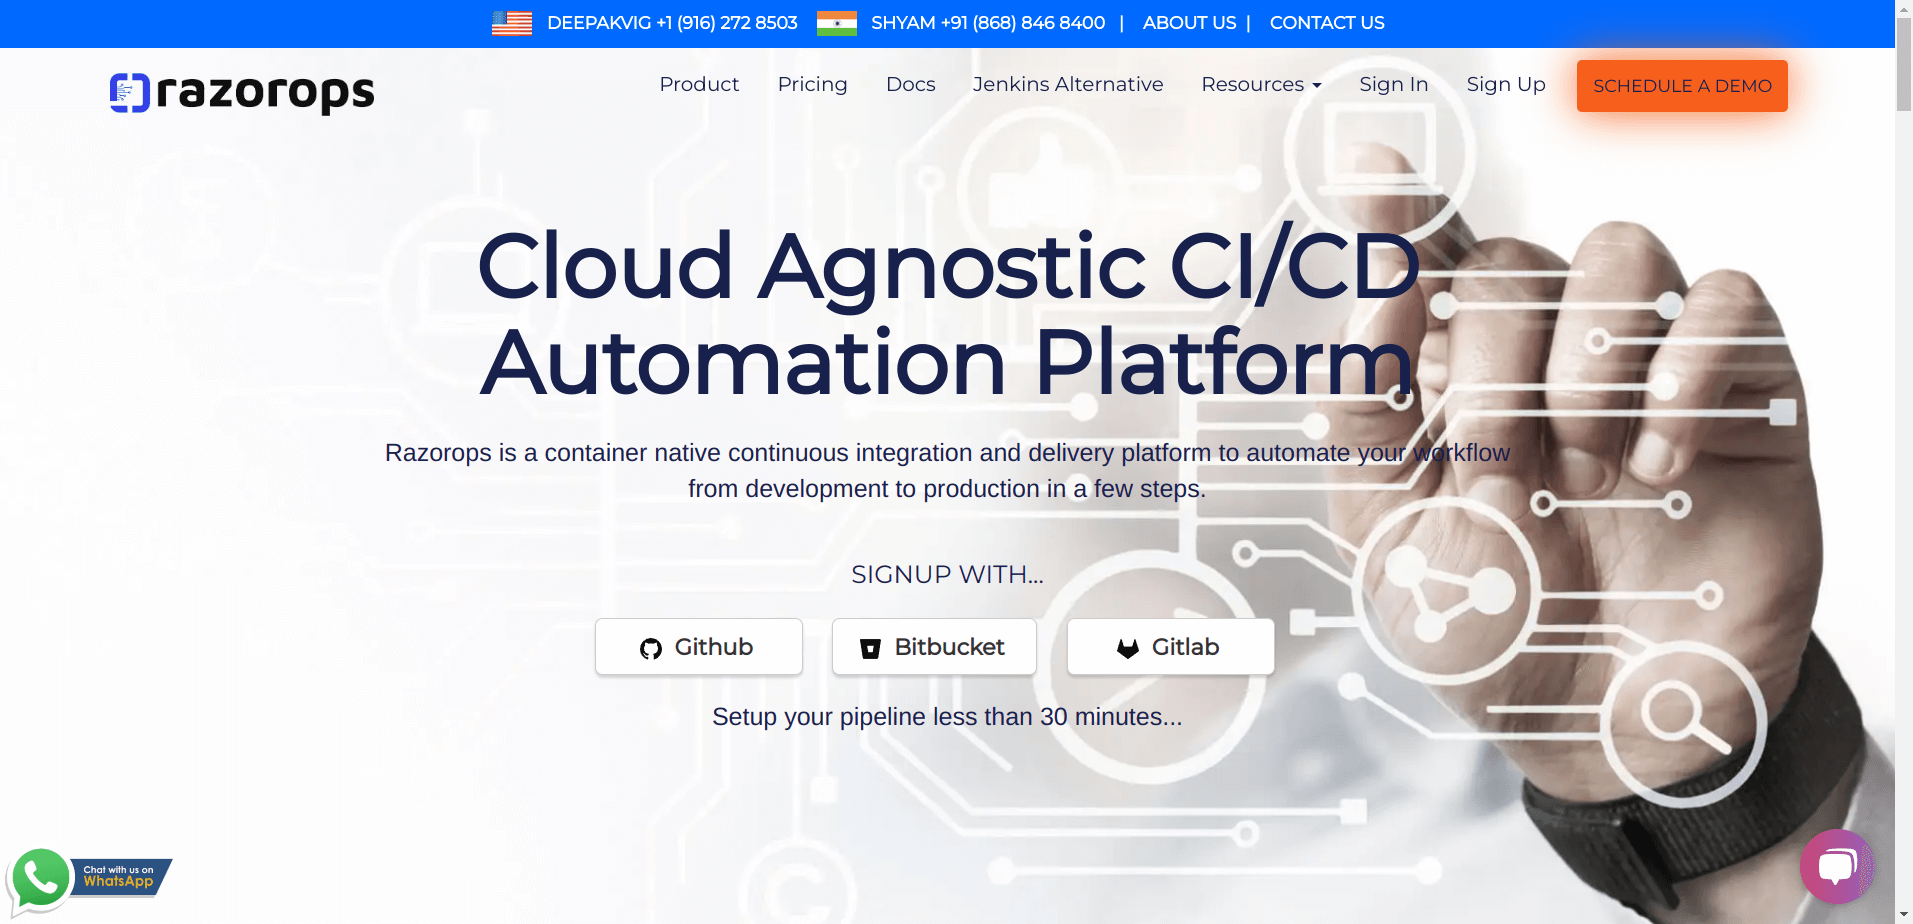
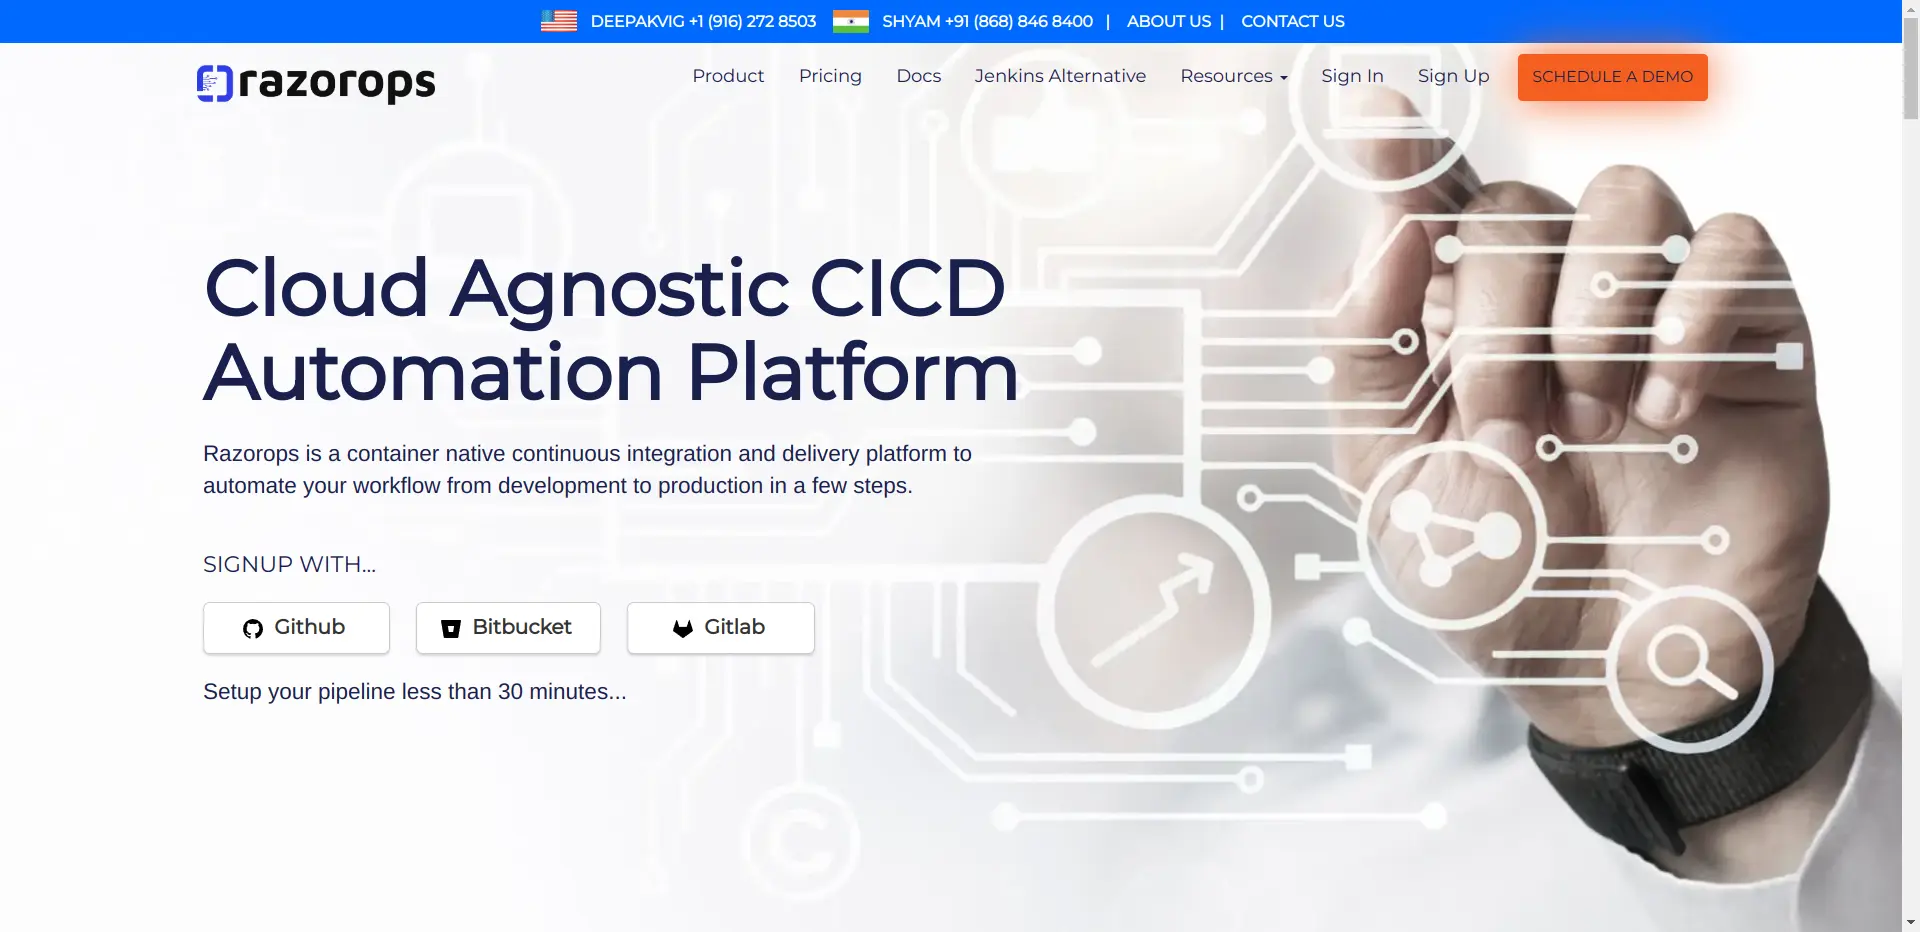
latets ui fixes

diff --git a/index.html b/index.html
@@ -1,18 +1,17 @@
 ---
 layout: home
-title: Cloud Agnostic CI/CD Automation Platform
+title: Cloud Agnostic CICD Automation Platform
 description: Razorops is a Cloud Agnostic DevOps Automation Platform to automate testing and deployment across the environments in few steps.
 keywords: Container Native Continuous Delivery, Build, Test, Deploy, Continuous delivery, Continuous integration, kubernetes, Docker, docker registry,docker container, aws, google cloud, azure kubernetes,Continuous deployment tool
 canonical_url: "https://razorops.com"
-image: /images/home/container-native-cicd.jpg
+image: /images/home/container-native-cicd.webp
 ---
 
 <div class="banner" id="intro">
   <div class="container">
-    <center>
       <div class="banner-msg">
         <!-- <h1 class="hero__title">Release software changes with high velocity</h1> -->
-        <h1 class="hero__title">Cloud Agnostic CI/CD Automation Platform</h1>
+        <h1 class="hero__title">Cloud Agnostic CICD Automation Platform</h1>
         <p class="hero__text">
           Razorops is a container native continuous integration and delivery platform to
           automate your workflow from development to production in a few steps.
@@ -52,17 +51,16 @@ image: /images/home/container-native-cicd.jpg
         <p class="hero__text" >Setup your pipeline less than 30 minutes...
 			</p>
       </div>
-    </center>
   </div>
 </div>
 
 <div class="razorops-ci-cd">
   <div class="container">
-    <div class="section-header"><h2>Razorops makes it easy</h2></div>
+    <div class="section-header"><h2>What is Razorops CICD?</h2></div>
     <div class="center">
       <a class="" id="myBtn">
         <img
-          src="images/home/razorops-intro.webp"
+          src="images/home/razorops-demo.webp"
           alt="razorops deployment pipeline"
           title="razorops deployment pipeline"
           class="thumnail-image img-responsive"
@@ -71,6 +69,7 @@ image: /images/home/container-native-cicd.jpg
       <div id="myModal" class="modalnew fade in">
         <div class="modal-video">
           <span class="close">&times;</span>
+          
           <video width="100%" height="540" controls="controls" id="test-audio">
             <source
               src="/images/razorops-introduction.mp4"
@@ -115,22 +114,22 @@ image: /images/home/container-native-cicd.jpg
     <div class="col-sm-4">
       <h3><b>Smarter</b></h3>
       <p class="lead mb-0">
-        Stop maintaining and scaling your local CI/CD infrastructure. Switch to
-        Cloud!
+        Stop maintaining and scaling your local CI/CD infrastructure. 
+        <b>Switch to Cloud!</b>
       </p>
     </div>
     <div class="col-sm-4">
       <h3><b>Faster</b></h3>
       <p class="lead mb-0">
-        Customizable pipeline automation speeds deployments to production. Build
-        more, wait less!
+        Customizable pipeline automation speeds deployments to production. 
+        <b>Build more, wait less!</b>
       </p>
     </div>
     <div class="col-sm-4">
       <h3><b>Better</b></h3>
       <p class="lead mb-0">
-        Build and Test better, avoid bugs before they reach your users. Ship
-        your code with confidence!
+        Build and Test better, avoid bugs before they reach your users. 
+        <b>Ship your code with confidence!</b>
       </p>
     </div>
     <br />
@@ -143,14 +142,13 @@ image: /images/home/container-native-cicd.jpg
 {% include thub-nasscom.html %} 
 <!-- {% include awards.html %} -->
 {% include leader-matrix.html %}
-<!-- 
-<div class="section-header mt-60"><h2>Try RazorOps at Digital Ocean </h2></div>
-{% include do-cta.html %} -->
+
 <div class="section-header mt-60"><h2>Latest Use Cases</h2></div>
 {% include home-customers-cta.html %}
 
 <div class="section-header"><h2>Latest Blog Articles</h2></div>
 {% include new-blogs-cta.html %}
+
 <div class="section-header mt-60">
   <h2>Latest Newsletters</h2>
 </div>
@@ -158,3 +156,7 @@ image: /images/home/container-native-cicd.jpg
 
 <!-- <div class="section-header mt-60"><h2>Try RazorOps at Azure Cloud </h2></div>
 {% include azure-cta.html %} -->
+
+<!-- 
+<div class="section-header mt-60"><h2>Try RazorOps at Digital Ocean </h2></div>
+{% include do-cta.html %} -->

diff --git a/css/main.css b/css/main.css
@@ -39,6 +39,26 @@ background-size: cover;
 padding: 200px 0 168px 0;
 }
 
+.getstarted-text {
+	color: #18204C;
+	font-size: 20px;
+	text-transform: uppercase;	
+}
+
+
+.hero__text{
+	margin: 20px 0px 40px 0px ;
+	color: #18204C;
+	text-align: left !important;
+}
+
+.hero__title{
+font-weight: 900 !important; 
+font-size: 68px !important;
+color: #18204C;
+}
+
+
 .instructors_background {
 /* position: absolute; */
 bottom: 0;
@@ -484,6 +504,16 @@ font-size: 19px;
 	background-color: #FFF;
 
 	}
+
+	.hero__title{
+		font-weight: 900 !important; 
+		font-size: 55px !important;
+		color: #18204C;
+		}
+
+	.banner-msg p{
+		display: none !important;
+	}
 }
 
 .nav-dropdown button {
@@ -679,12 +709,11 @@ overflow: hidden;
 position: relative;
 width: 70%;
 /* float: left; */
-margin-top: -45px;
 }
 .banner-msg p {
-font-weight: 400;
-font-size: 20px;
-text-align: center;
+	font-weight: 400;
+	font-size: 20px;
+	width: 750px;
 }
 .banner-actions {
 margin-top: 30px;
@@ -1093,9 +1122,7 @@ font-size: 3.5em;
 .banner-illustration {
 display: none;
 }
-.banner-msg p {
-font-size: 19px;
-}
+
 .banner-actions .btn {
 display: block;
 width: 100% !important;
@@ -3609,9 +3636,7 @@ color: #000;
 text-decoration: none;
 cursor: pointer;
 }
-.modal-dialog{
-width: 60% !important;
-}
+
 .modal-video {
 background-color: #fefefe;
 margin: auto;
@@ -3686,10 +3711,7 @@ border: 1px solid #888;
 width: 94%;
 
 }
-.modal-dialog{
-width: 90% !important;
-margin: 20px !important;
-}
+
 .close {
 color: #aaaaaa;
 float: right;
@@ -4226,22 +4248,6 @@ border-radius: 10px;
 	color: #FFF;
 }
 
-.getstarted-text {
-	color: #18204C;
-	font-size: 20px;
-	text-transform: uppercase;	
-}
-
-
-.hero__text{
-margin: 20px 0px 40px 0px ;
-color: #18204C;
-}
-.hero__title{
-font-weight: 900 !important; 
-font-size: 70px !important;
-color: #18204C;
-}
 
 
 

diff --git a/_includes/top_clients.html b/_includes/top_clients.html
@@ -37,9 +37,9 @@
     <img src="/images/clients/netfusiontechnology.webp" alt="net fusion technology" >
     </div>
 
-    <div class="slide2">
+    <!-- <div class="slide2">
     <img src="/images/clients/national-statistical-office.gif" alt="national statistical office" >
-    </div>
+    </div> -->
 
     <div class="slide2">
     <img src="/images/clients/barknlounge.webp" alt="barknlounge" >
@@ -62,7 +62,7 @@
     </div> -->
 
     <div class="slide2">
-      <img src="/images/clients/yaxis.png" alt="Y AXIS" >
+      <img src="/images/clients/yaxis.webp" alt="Y AXIS" >
     </div>
 
 
@@ -78,20 +78,20 @@
       <img src="/images/case-study-assets/applozicbrandLogo.svg" alt="applozic" >
     </div>
 
-    <div class="slide2">
+    <!-- <div class="slide2">
       <img src="/images/clients/maverick.png" alt="maverick" >
-    </div>
+    </div> -->
 
     <div class="slide2">
-      <img src="/images/case-study-assets/72pi.png" alt="72pi" >
+      <img src="/images/case-study-assets/72pi.webp" alt="72pi" >
     </div>
 
-    <div class="slide2">
+    <!-- <div class="slide2">
       <img src="/images/case-study-assets/leading-edtech-logo.png" alt="EdTech" >
-    </div>
+    </div> -->
 
     <div class="slide2">
-      <img src="/images/case-study-assets/nimble.png" alt="Nimble Buying" >
+      <img src="/images/case-study-assets/nimble.webp" alt="Nimble Buying" >
     </div>
 
     

diff --git a/jenkins-alternative/index.html b/jenkins-alternative/index.html
@@ -420,14 +420,14 @@ image: '/images/jenkins-alternative.jpg'
 
   <div class="container about-vssection" >
     <div class="about-body"  id="our-tool">
-        <h2 class="section-header2 text-center">What is RazorOps?</h2>
+        <h2 class="section-header2 text-center">What is RazorOps CI/CD?</h2>
         <div class="about-content">
           <p class="text-center">
             Razorops is the simplest container-native CI/CD platform that offers complete automation of your software development cycle from development to production.
           </p>
           <div class="text-center">
             <a class="" id="myBtn">
-            <img src="/images/razorops-introduction.gif" alt="razorops deployment pipeline" title="razorops deployment pipeline" class="thumnail-gifimage img-responsive">
+            <img src="/images/home/razorops-demo.webp" alt="razorops deployment pipeline" title="razorops deployment pipeline" class="thumnail-gifimage img-responsive">
             </a>
             <div id="myModal" class="modalnew fade in">
             <div class="modal-video">

diff --git a/_includes/footer.html b/_includes/footer.html
@@ -237,17 +237,16 @@
   </div>
 </div>
 
- <div class="whatsapp">
+  <!-- <div class="whatsapp">
     <a target="_blank" href="https://api.whatsapp.com/send/?phone=918688468400&text=I%27m+interested+in+DevOps+Automation+and+RazorOps+CICD.+I+have+a+few+questions%2C+can+you+help%3F&type=phone_number&app_absent=0">
-      <img src="/images/home/razorops-whatsapp.webp" width="140px">
+    <img src="/images/home/razorops-whatsapp.webp" width="140px">
     </a>
-  </div>
+  </div> -->
+
 </div>
 
 
-<!-- Start of HubSpot Embed Code -->
-<script type="text/javascript" id="hs-script-loader" async defer src="//js-na1.hs-scripts.com/6775901.js"></script>
-<!-- End of HubSpot Embed Code -->
+
 
 <!---------------FOOTER--------------->
 <hr class="footer-hr" />

diff --git a/_includes/third-party-js.html b/_includes/third-party-js.html
@@ -72,3 +72,8 @@ $(document).ready(function () {
     r.getSessionToken=function(){};
   })("//static.openreplay.com/11.0.1/openreplay.js",1,0,initOpts,startOpts);
 </script>
+
+
+<!-- Start of HubSpot Embed Code -->
+<!-- <script type="text/javascript" id="hs-script-loader" async defer src="//js-na1.hs-scripts.com/6775901.js"></script> -->
+<!-- End of HubSpot Embed Code -->
